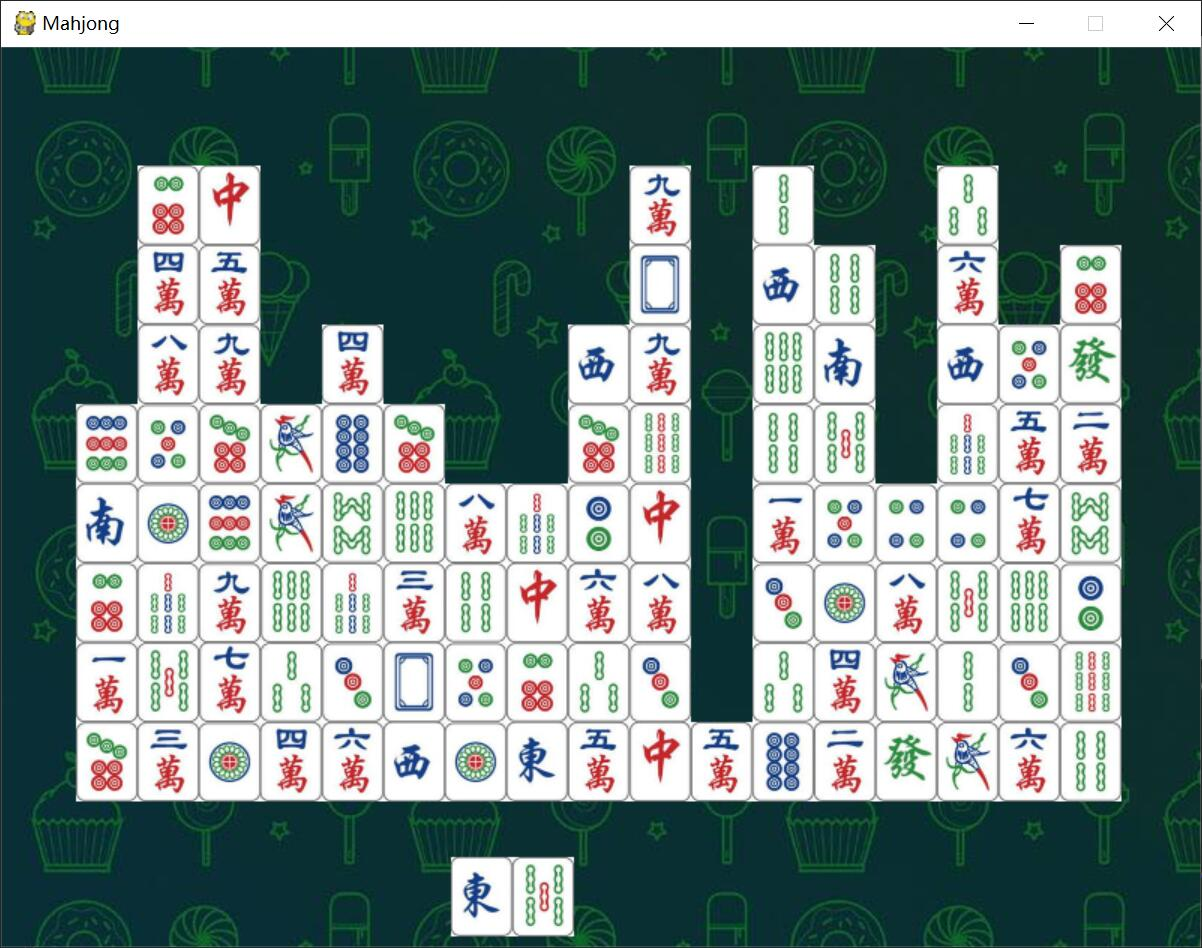
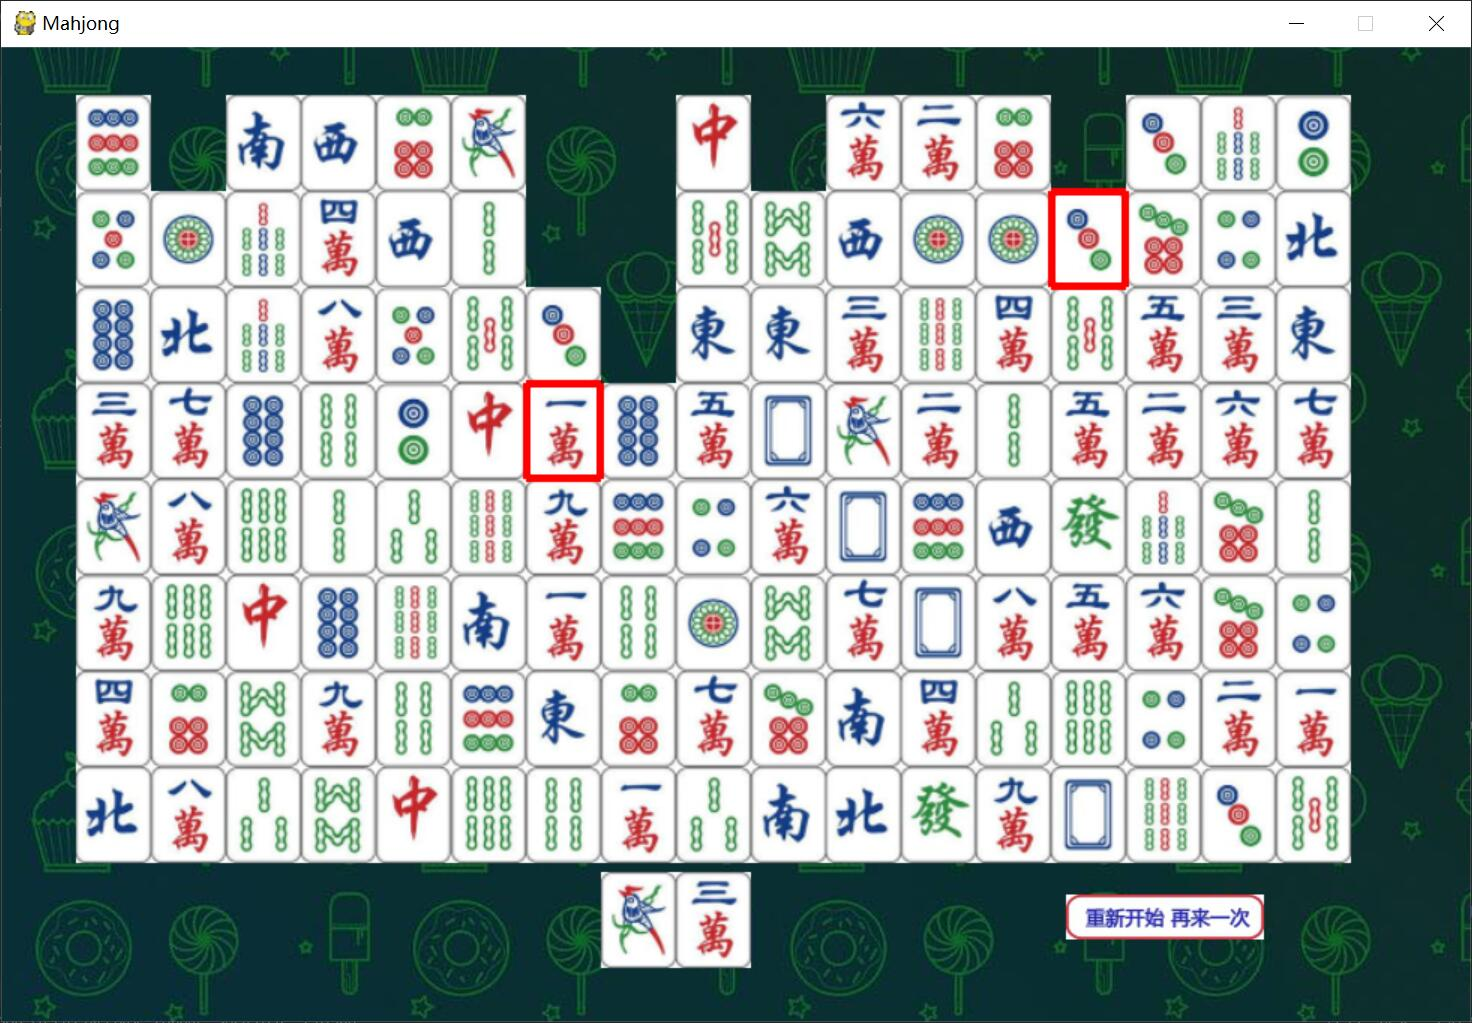
Update Replay Button
1. new replay button
2. adjust the position of tiles in hand
3. new demo image

diff --git a/mahjong.py b/mahjong.py
@@ -12,8 +12,9 @@ pygame.display.set_caption('Mahjong')
 background = pygame.image.load('./res/background.jpg')
 gameover = pygame.image.load('./res/gameover.jpg')
 success = pygame.image.load('./res/success_test.png')
-replay = pygame.image.load('./res/replay.png') # 120, 30
-
+replay = pygame.image.load('./res/replay.PNG') # 132, 30
+REPLAY = [132, 30]
+REPLAY_POS = [710, 565]
 game_continue = True
 
 
@@ -27,7 +28,7 @@ while game_continue:
         
         screen.fill(0)
         screen.blit(background, (0, 0))
-        screen.blit(replay, (850, 610))
+        screen.blit(replay, (REPLAY_POS[0], REPLAY_POS[1]))
         for event in pygame.event.get():
             if event.type == QUIT:
                 pygame.quit()
@@ -39,8 +40,8 @@ while game_continue:
                 for index in range(len(pressed_array)):
                     if pressed_array[index]:
                         if index == 0: # left 
-                            if position[0]>=850 and position[0] <= 970 and \
-                               position[1]>=610 and position[1] <= 640:
+                            if position[0]>=REPLAY_POS[0] and position[0] <= REPLAY_POS[0]+REPLAY[0] and \
+                               position[1]>=REPLAY_POS[1] and position[1] <= REPLAY_POS[1]+REPLAY[1]:
                                 restart = True
                                 break
                             status = board.choose(position)
@@ -75,8 +76,8 @@ while game_continue:
                 sys.exit()
             if event.type == pygame.MOUSEBUTTONDOWN:
                 position = pygame.mouse.get_pos()
-                if position[0]>=850 and position[0] <=970 and \
-                   position[1]>=610 and position[1] <= 640:
+                if position[0]>=REPLAY_POS[0] and position[0] <=REPLAY_POS[0]+REPLAY[0] and \
+                   position[1]>=REPLAY_POS[1] and position[1] <= REPLAY_POS[1]+REPLAY[1]:
                     flag = False
                     game_continue = True
                     break

diff --git a/board.py b/board.py
@@ -56,7 +56,7 @@ class Board:
             pos_row += TILE_ROW
 
         # tile in hand
-        pos_row = 350
+        pos_row = 400
         for tile in self.tile_in_hand:
             screen.blit(tile.img, (pos_row, 550))
             pos_row += TILE_ROW
